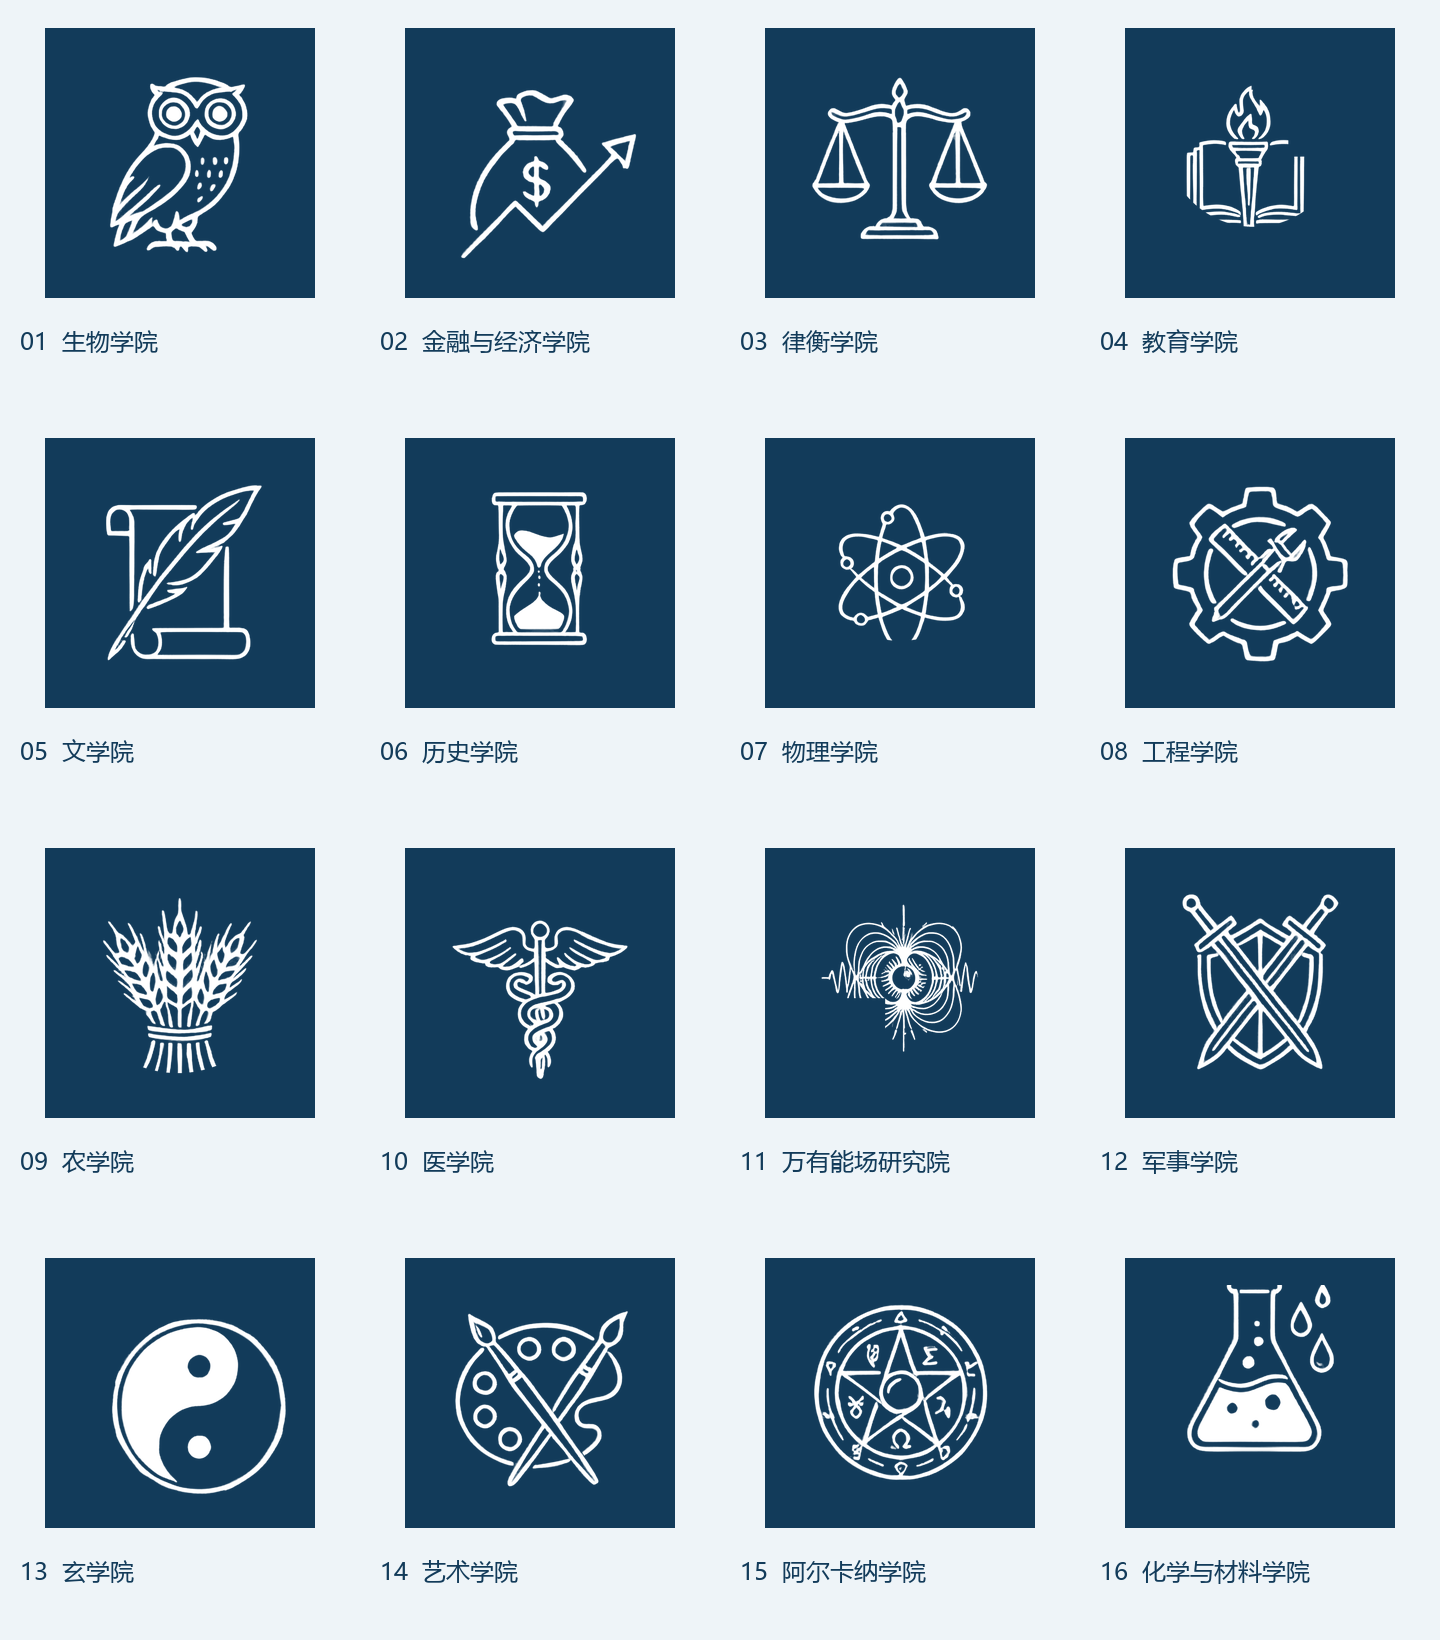
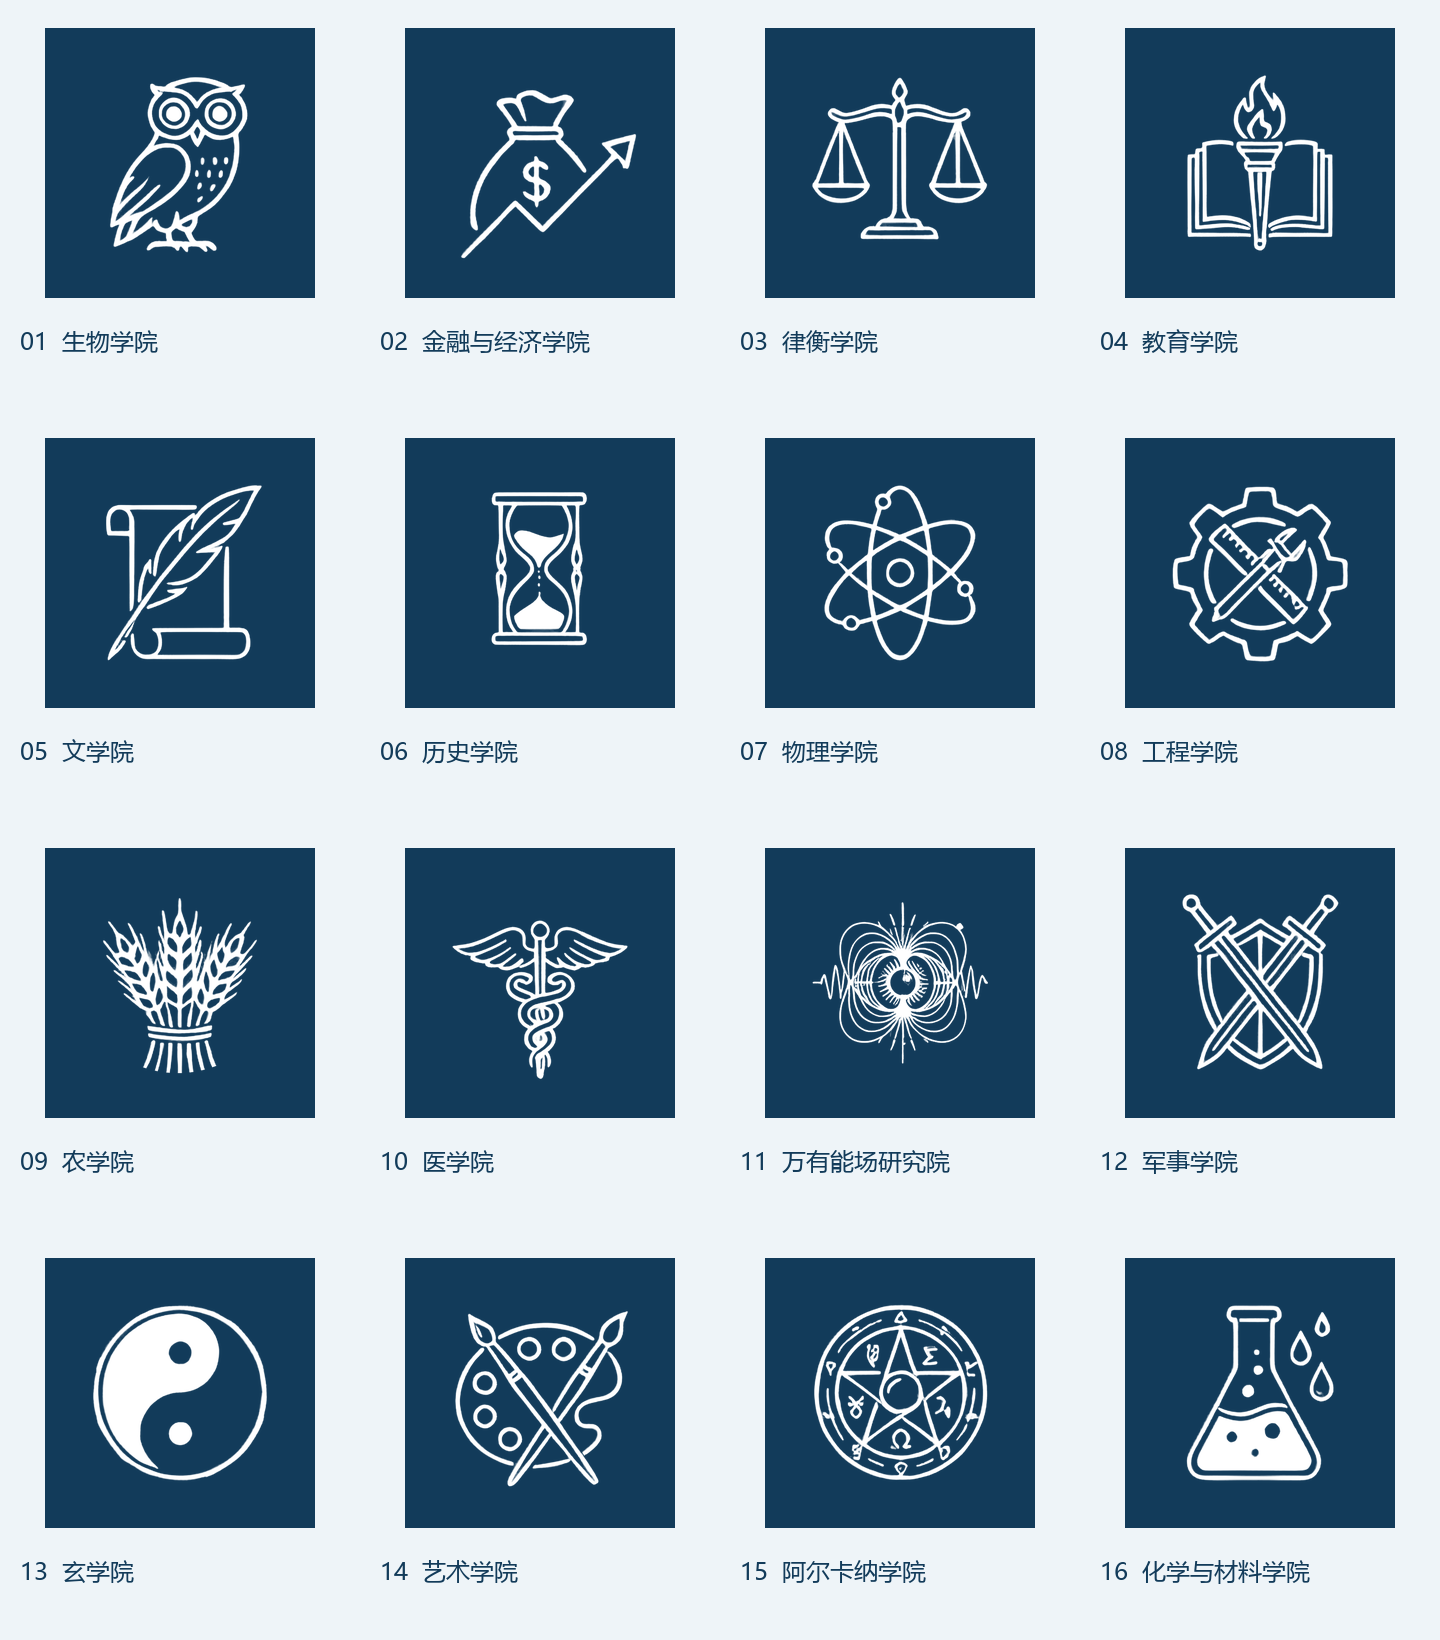
fix: refine faculty emblem crops

diff --git a/tools/extract_faculty_emblems.py b/tools/extract_faculty_emblems.py
@@ -49,6 +49,18 @@ FACULTIES = (
     Faculty("chemistry", "化学与材料学院", (334, 107), 130),
 )
 
+# These five pictograms need tighter source-space boxes than the generic square
+# crops below.  The old cleanup masks clipped legitimate outer strokes (and, for
+# the yin-yang, alpha-centroid alignment was optically misleading).  Coordinates
+# are measured on the 960 px source preview and map back to the official 8K art.
+PRECISE_WEB_BOXES = {
+    "education": (796, 263, 899, 381),
+    "physics": (706, 693, 809, 816),
+    "field": (142, 697, 272, 819),
+    "mystic": (48, 430, 140, 530),
+    "chemistry": (292, 69, 382, 169),
+}
+
 # Several pictograms sit unusually close to the neighboring orbital rules in the
 # master seal. These conservative masks keep the complete pictogram while
 # excluding the detached rule fragments visible in the previous web crops.
@@ -147,6 +159,75 @@ def normalize_icon(icon: Image.Image, canvas_size: int = 640, art_size: int = 52
     return canvas
 
 
+def normalize_icon_by_bounds(
+    icon: Image.Image, canvas_size: int = 640, art_size: int = 520
+) -> Image.Image:
+    """Center an isolated pictogram by its outer geometry rather than ink weight."""
+    alpha = icon.getchannel("A")
+    bbox = alpha.point(lambda value: 255 if value > 12 else 0).getbbox()
+    if not bbox:
+        return Image.new("RGBA", (canvas_size, canvas_size), (255, 255, 255, 0))
+
+    cropped = icon.crop(bbox)
+    scaled = ImageOps.contain(cropped, (art_size, art_size), Image.Resampling.LANCZOS)
+    canvas = Image.new("RGBA", (canvas_size, canvas_size), (255, 255, 255, 0))
+    canvas.alpha_composite(
+        scaled,
+        ((canvas_size - scaled.width) // 2, (canvas_size - scaled.height) // 2),
+    )
+    return canvas
+
+
+def keep_precise_pictogram_components(icon: Image.Image, slug: str) -> Image.Image:
+    """Discard nearby seal rules while retaining disconnected emblem details."""
+    if slug == "mystic":
+        return icon
+
+    rgba = np.asarray(icon).copy()
+    alpha = rgba[..., 3]
+    labels, count = ndimage.label(alpha > 18, structure=np.ones((3, 3), dtype=np.uint8))
+    height, width = alpha.shape
+    keep = np.zeros_like(alpha, dtype=bool)
+    component_sizes = np.bincount(labels.ravel())
+    largest_label = int(component_sizes[1:].argmax() + 1) if count else 0
+
+    for label_id in range(1, count + 1):
+        ys, xs = np.where(labels == label_id)
+        area = len(xs)
+        if not area:
+            continue
+
+        touches_edge = (
+            xs.min() <= 1
+            or ys.min() <= 1
+            or xs.max() >= width - 2
+            or ys.max() >= height - 2
+        )
+        if touches_edge and not (slug == "field" and label_id == largest_label):
+            continue
+
+        centroid_x = float(xs.mean()) / width
+        centroid_y = float(ys.mean()) / height
+        if slug == "physics" and area < 7000:
+            continue
+        if slug == "field" and area < 200:
+            continue
+        if slug == "field" and label_id != largest_label and centroid_y < 0.08:
+            continue
+        if slug == "field" and centroid_x > 0.72 and centroid_y < 0.30:
+            continue
+        if slug == "chemistry" and centroid_y > 0.90:
+            continue
+        keep[labels == label_id] = True
+
+    if slug == "field":
+        yy, xx = np.ogrid[:height, :width]
+        keep &= ~((xx > width * 0.94) & (yy < height * 0.28))
+
+    rgba[..., 3] = np.where(keep, alpha, 0)
+    return Image.fromarray(rgba, "RGBA")
+
+
 def remove_known_artifacts(icon: Image.Image, slug: str) -> Image.Image:
     """Remove detached neighboring rules without redrawing source line work."""
     rgba = np.asarray(icon).copy()
@@ -212,6 +293,21 @@ def crop_square(image: Image.Image, cx: float, cy: float, size: int) -> Image.Im
     return image.crop((round(cx - half), round(cy - half), round(cx + half), round(cy + half)))
 
 
+def crop_preview_box(image: Image.Image, box: tuple[int, int, int, int]) -> Image.Image:
+    """Crop a box authored against the 960 px inspection preview at source quality."""
+    scale_x = image.width / 960
+    scale_y = image.height / 960
+    left, top, right, bottom = box
+    return image.crop(
+        (
+            round(left * scale_x),
+            round(top * scale_y),
+            round(right * scale_x),
+            round(bottom * scale_y),
+        )
+    )
+
+
 def make_contact_sheet(items: list[tuple[Faculty, Image.Image]]) -> None:
     cell_w, cell_h = 360, 410
     sheet = Image.new("RGB", (cell_w * 4, cell_h * 4), "#eef4f8")
@@ -255,20 +351,27 @@ def main() -> None:
             raw_path = RAW_DIR / f"{index + 1:02d}-{faculty.slug}.png"
             raw.save(raw_path, compress_level=6)
 
-            transparent = transparent_white_lines(raw)
-            if faculty.slug in SAFE_RADIUS:
-                transparent = keep_central_disc(transparent, SAFE_RADIUS[faculty.slug])
+            precise_box = PRECISE_WEB_BOXES.get(faculty.slug)
+            if precise_box is not None:
+                isolated = crop_preview_box(source, precise_box)
+                transparent = transparent_white_lines(isolated)
+                transparent = keep_precise_pictogram_components(transparent, faculty.slug)
+                transparent = normalize_icon_by_bounds(transparent)
             else:
-                transparent = remove_neighboring_ring_artifacts(transparent)
-            transparent = remove_known_artifacts(transparent, faculty.slug)
-            transparent = normalize_icon(transparent)
-            if faculty.slug == "field":
-                transparent = keep_centered_components(transparent, 0.0)
-            elif faculty.slug == "education":
-                transparent = keep_centered_components(transparent, 0.32)
-            elif faculty.slug in {"history", "physics"}:
-                transparent = keep_centered_components(transparent, 0.36)
-            transparent = remove_normalized_artifacts(transparent, faculty.slug)
+                transparent = transparent_white_lines(raw)
+                if faculty.slug in SAFE_RADIUS:
+                    transparent = keep_central_disc(transparent, SAFE_RADIUS[faculty.slug])
+                else:
+                    transparent = remove_neighboring_ring_artifacts(transparent)
+                transparent = remove_known_artifacts(transparent, faculty.slug)
+                transparent = normalize_icon(transparent)
+                if faculty.slug == "field":
+                    transparent = keep_centered_components(transparent, 0.0)
+                elif faculty.slug == "education":
+                    transparent = keep_centered_components(transparent, 0.32)
+                elif faculty.slug in {"history", "physics"}:
+                    transparent = keep_centered_components(transparent, 0.36)
+                transparent = remove_normalized_artifacts(transparent, faculty.slug)
             web_path = WEB_DIR / f"{index + 1:02d}-{faculty.slug}.png"
             transparent.save(web_path, compress_level=6)
             web_items.append((faculty, transparent))
